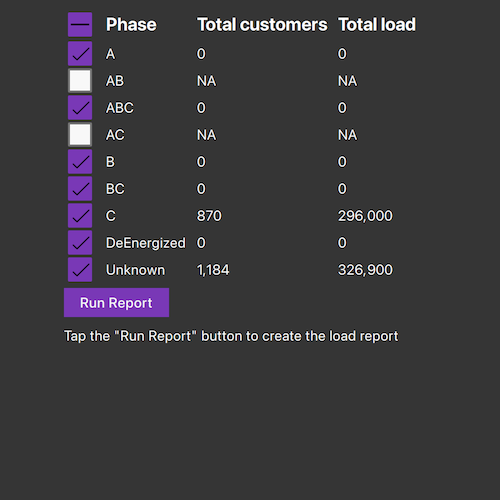
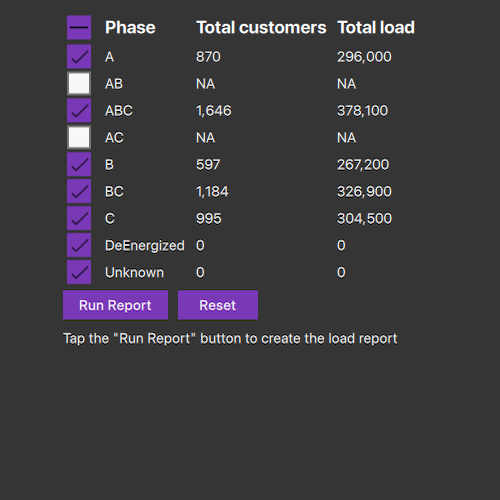
Fix race + update screenshot. (#2005)

Changed region(s): [[0.12, 0.0, 0.84, 0.69], [0.21, 0.03, 0.33, 0.12]]

diff --git a/CppSamples/UtilityNetwork/CreateLoadReport/CreateLoadReport.qml b/CppSamples/UtilityNetwork/CreateLoadReport/CreateLoadReport.qml
@@ -20,6 +20,8 @@ import QtQuick.Layouts
 import Esri.Samples
 
 Item {
+    id: root
+
     property var phases: ["A", "AB", "ABC", "AC", "B", "BC", "C", "DeEnergized", "Unknown"]
     property var selectedPhases: ({})
     property bool reportHasRun: false
@@ -84,10 +86,12 @@ Item {
             }
 
             Row {
-                Button {
-                    text: checkBoxes.checkState !== 0 || !reportHasRun ? qsTr("Run Report") : qsTr("Reset")
+                spacing: 10
 
-                    enabled: ((reportHasRun || checkBoxes.checkState !== 0) && sampleModel.sampleStatus === 2) ? true : false
+                Button {
+                    text: qsTr("Run Report")
+
+                    enabled: checkBoxes.checkState !== 0 && sampleModel.sampleStatus === CreateLoadReportSample.SampleReady
 
                     onClicked: {
                         let phasesToRun = [];
@@ -98,6 +102,20 @@ Item {
                         sampleModel.runReport(phasesToRun);
 
                         reportHasRun = phasesToRun.length !== 0;
+                    }
+                }
+
+                Button {
+                    text: qsTr("Reset")
+                    enabled: root.reportHasRun && sampleModel.sampleStatus === CreateLoadReportSample.SampleReady
+
+                    onClicked: {
+                        for (let index = 0; index < phaseCheckBoxes.count; ++index)
+                            phaseCheckBoxes.itemAt(index).checked = false;
+
+                        root.selectedPhases = {};
+                        sampleModel.runReport([]);
+                        root.reportHasRun = false;
                     }
                 }
             }

diff --git a/CppSamples/UtilityNetwork/CreateLoadReport/CreateLoadReport.cpp b/CppSamples/UtilityNetwork/CreateLoadReport/CreateLoadReport.cpp
@@ -23,8 +23,8 @@
 
 // ArcGIS Maps SDK headers
 #include "ArcGISRuntimeEnvironment.h"
-#include "Authentication/AuthenticationManager.h"
 #include "Authentication/ArcGISAuthenticationChallenge.h"
+#include "Authentication/AuthenticationManager.h"
 #include "Authentication/TokenCredential.h"
 #include "CodedValueDomain.h"
 #include "ErrorException.h"
@@ -36,6 +36,7 @@
 #include "UtilityCategory.h"
 #include "UtilityCategoryComparison.h"
 #include "UtilityDomainNetwork.h"
+#include "UtilityElement.h"
 #include "UtilityElementTraceResult.h"
 #include "UtilityFunctionTraceResult.h"
 #include "UtilityNetwork.h"
@@ -53,11 +54,11 @@
 #include "UtilityTraceFunctionOutput.h"
 #include "UtilityTraceOrCondition.h"
 #include "UtilityTraceParameters.h"
-#include "UtilityTraceResultListModel.h"
 #include "UtilityTraversability.h"
 
 // Qt headers
 #include <QFuture>
+#include <QSet>
 
 using namespace Esri::ArcGISRuntime;
 using namespace Esri::ArcGISRuntime::Authentication;
@@ -219,12 +220,12 @@ void CreateLoadReport::runReport(const QStringList& selectedPhaseNames)
   m_sampleStatus = CreateLoadReport::SampleBusy;
   emit sampleStatusChanged();
 
-  QVector<CodedValue> activeValues;
+  m_pendingPhaseValues.clear();
   for (const CodedValue& codedValue : std::as_const(m_phaseList))
   {
     if (selectedPhaseNames.contains(codedValue.name()))
     {
-      activeValues.append(codedValue);
+      m_pendingPhaseValues.append(codedValue);
     }
 
     // Reset the report values
@@ -233,23 +234,43 @@ void CreateLoadReport::runReport(const QStringList& selectedPhaseNames)
 
     emit loadReportUpdated();
   }
-  m_traceRequestCount = activeValues.size();
-  for (const CodedValue& codedValue : activeValues)
-  {
-    setUtilityTraceOrconditionWithCodedValue(codedValue);
-    m_utilityNetwork->traceAsync(m_traceParameters)
-      .then(this, [this, codedValue](QList<UtilityTraceResult*>)
-    {
-      onTraceCompleted_(codedValue.name());
-    });
-  }
 
   // If no phases were selected then the sample was reset and can be marked ready
-  if (selectedPhaseNames.size() == 0)
+  if (m_pendingPhaseValues.isEmpty())
   {
     m_sampleStatus = CreateLoadReport::SampleReady;
     emit sampleStatusChanged();
+    return;
   }
+
+  runNextTrace_();
+}
+
+void CreateLoadReport::runNextTrace_()
+{
+  const CodedValue codedValue = m_pendingPhaseValues.takeFirst();
+  setUtilityTraceOrconditionWithCodedValue(codedValue);
+  m_utilityNetwork->traceAsync(m_traceParameters)
+    .then(this,
+          [this, codedValue](const QList<UtilityTraceResult*>& results)
+  {
+    onTraceCompleted_(codedValue.name(), results);
+
+    if (m_pendingPhaseValues.isEmpty())
+    {
+      m_sampleStatus = CreateLoadReport::SampleReady;
+      emit sampleStatusChanged();
+      return;
+    }
+
+    runNextTrace_();
+  })
+    .onFailed(this, [this](const ErrorException&)
+  {
+    m_pendingPhaseValues.clear();
+    m_sampleStatus = CreateLoadReport::SampleError;
+    emit sampleStatusChanged();
+  });
 }
 
 void CreateLoadReport::setUtilityTraceOrconditionWithCodedValue(CodedValue codedValue)
@@ -268,16 +289,20 @@ void CreateLoadReport::setUtilityTraceOrconditionWithCodedValue(CodedValue coded
   m_traceParameters->traceConfiguration()->traversability()->setBarriers(utilityTraceOrCondition);
 }
 
-void CreateLoadReport::onTraceCompleted_(const QString& codedValueName)
+void CreateLoadReport::onTraceCompleted_(const QString& codedValueName, const QList<UtilityTraceResult*>& results)
 {
-  UtilityTraceResultListModel* results = m_utilityNetwork->traceResult();
-
-  for (UtilityTraceResult* result : *results)
+  for (UtilityTraceResult* result : results)
   {
     // Get the total customers from the UtilityElementTraceResult
     if (UtilityElementTraceResult* elementResult = dynamic_cast<UtilityElementTraceResult*>(result))
     {
-      m_phaseCust[codedValueName] = elementResult->elements(this).size();
+      QSet<qint64> customerObjectIds;
+      const QList<UtilityElement*> elements = elementResult->elements(this);
+      for (const UtilityElement* element : elements)
+      {
+        customerObjectIds.insert(element->objectId());
+      }
+      m_phaseCust[codedValueName] = customerObjectIds.size();
     }
 
     // Get the total load from the UtilityFunctionTraceResult
@@ -288,12 +313,6 @@ void CreateLoadReport::onTraceCompleted_(const QString& codedValueName)
   }
 
   emit loadReportUpdated();
-  // If the trace request count is zero, all trace tasks have completed
-  if ((--m_traceRequestCount) == 0)
-  {
-    m_sampleStatus = CreateLoadReport::SampleReady;
-    emit sampleStatusChanged();
-  }
 }
 
 CreateLoadReport::~CreateLoadReport() = default;

diff --git a/CppSamples/UtilityNetwork/CreateLoadReport/CreateLoadReport.h b/CppSamples/UtilityNetwork/CreateLoadReport/CreateLoadReport.h
@@ -38,6 +38,7 @@ namespace Esri::ArcGISRuntime
   class UtilityTraceConditionalExpression;
   class UtilityTraceConfiguration;
   class UtilityTraceParameters;
+  class UtilityTraceResult;
 } // namespace Esri::ArcGISRuntime
 
 namespace Esri::ArcGISRuntime::Authentication
@@ -83,7 +84,8 @@ private:
   Esri::ArcGISRuntime::UtilityElement* createStartingLocation();
   Esri::ArcGISRuntime::UtilityTraceConfiguration* createDefaultTraceConfiguration();
   QList<Esri::ArcGISRuntime::CodedValue> createPhaseList();
-  void onTraceCompleted_(const QString& codeValueName);
+  void runNextTrace_();
+  void onTraceCompleted_(const QString& codeValueName, const QList<Esri::ArcGISRuntime::UtilityTraceResult*>& results);
   void setUtilityTraceOrconditionWithCodedValue(Esri::ArcGISRuntime::CodedValue);
 
   void handleArcGISAuthenticationChallenge(Esri::ArcGISRuntime::Authentication::ArcGISAuthenticationChallenge* challenge) override;
@@ -97,6 +99,7 @@ private:
   Esri::ArcGISRuntime::UtilityTraceConfiguration* m_traceConfiguration = nullptr;
   Esri::ArcGISRuntime::UtilityTraceParameters* m_traceParameters = nullptr;
   QList<Esri::ArcGISRuntime::CodedValue> m_phaseList;
+  QList<Esri::ArcGISRuntime::CodedValue> m_pendingPhaseValues;
   QStringList m_activePhases;
   QVariantMap m_phaseCust;
   QVariantMap m_phaseLoad;
@@ -113,7 +116,6 @@ private:
   QString m_terminalName;
   QString m_tierName;
   const QUrl m_featureLayerUrl = QUrl("https://sampleserver7.arcgisonline.com/server/rest/services/UtilityNetwork/NapervilleElectric/FeatureServer");
-  int m_traceRequestCount;
 };
 
 #endif // CREATELOADREPORT_H

diff --git a/CppSamples/UtilityNetwork/CreateLoadReport/README.md b/CppSamples/UtilityNetwork/CreateLoadReport/README.md
@@ -10,7 +10,7 @@ You can use a load report to display the customers per phase as well as the load
 
 ## How to use the sample
 
-Select phases to be included in the report. Press the "Run Report" button to initiate a downstream trace on the network and create a load report. Pressing "Run Report" again will generate a new load report. Deselect all phases and press the "Reset" button to clear the report.
+Choose phases to be included in the report. Click "Run Report" to initiate a downstream trace on the network and create a load report. Click "Reset" to clear the phases and start over.
 
 ## How it works
 
@@ -22,7 +22,7 @@ Select phases to be included in the report. Press the "Run Report" button to ini
 6. Reset the `functions` property of the trace configuration with a new `UtilityTraceFunction` adding a "Service Load" network attribute where this category comparison applies. This will limit the function results.
 7. Set `outputCondition` with the category comparison to limit the element results.
 8. Get a base condition from the utility tier's default trace configuration.
-9. Create `UtilityTraceParameters` passing in `downstream` utility trace type and the default starting location. Set its `traceConfiguration` property with the trace configuration above.
+9. Create `UtilityTraceParameters` passing in `downstream` utility trace type and the default starting location. Set its `traceConfiguration` property with the trace configuration above and set `includeBarriers` to `false`.
 10. Populate a list of phases using the network attribute's `codedValues` property.
 11. When the "Run Report" button is tapped, run a trace for every checked `CodedValue` in the phases list. Do this by creating a `UtilityTraceOrCondition` with the base condition and a `UtilityNetworkAttributeComparison` where the "Phases Current" network attribute does not include the coded value.
 12. Display the count of "Total Customers" using the `elements` property of the result, and the result of "Total Load" using the first and only output in `functionOutputs` property.
